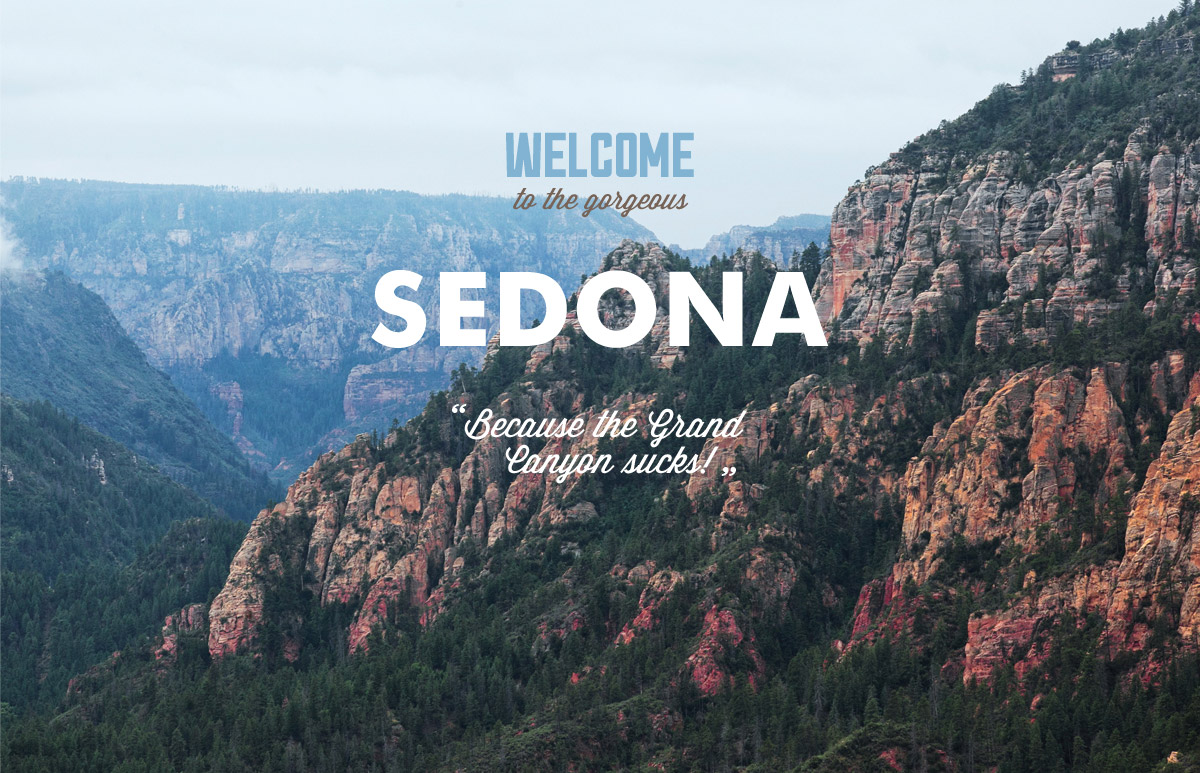
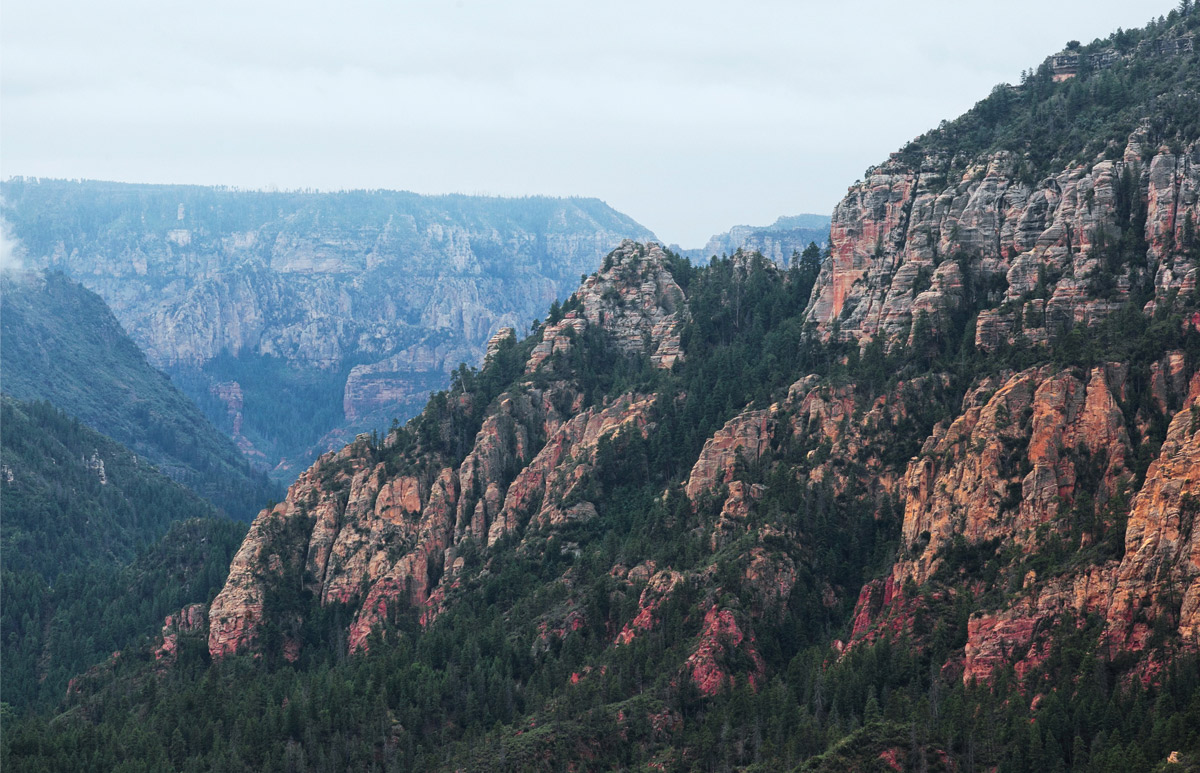
исправлены ошибки

Changed region(s): [[0.3083, 0.3415, 0.7092, 0.4657], [0.4008, 0.1552, 0.5858, 0.2794], [0.37, 0.5278, 0.6167, 0.621]]

diff --git a/index.html b/index.html
@@ -8,6 +8,7 @@
     <body>
         <header class="page-header">
             <nav class="main-menu">
+                <img src="img/sedona.png" alt="sedona" width="458" height="352">
                 <div class="logo">
                     <a><img alt="Логотип" src="img/logo.png" width="138" height="70"></a>
                 </div>
@@ -28,8 +29,8 @@
                 <h2 class="visually-hidden">Преимущества</h2>
                 <p>Рассмотрим 5 причин, по которым Седона круче чем Гранд Каньон!</p>
       
-                <ul class="features-with-img">
-                    <li class="features-with-img-item">
+                <ul class="features-img">
+                    <li class="features-img-item">
                         <img src="img/real-town.jpg" width="800" height="401" alt="Настоящий городок">
                         <div>
                             <h3>Настоящий городок</h3>
@@ -37,7 +38,7 @@
                             <p>Седона — не аттракцион для туристов, там течет своя жизнь</p>
                         </div>
                     </li>
-                    <li class="features-with-img-item">
+                    <li class="features-img-item">
                         <img src="img/bridge.jpg" width="800" height="400" alt="Мост дьявола">
                         <div>
                             <h3>Там есть Мост дьявола</h3>
@@ -46,7 +47,7 @@
                       </div>
                     </li>
                 </ul>
-                <ul class="features-list">
+                <ul class="features">
                     <li class="features-item">
                         <h3>Небольшая площадь</h3>
                         <p>— №3 —</p>
@@ -65,7 +66,7 @@
                 </ul>
 
                 <h2 class="visually-hidden">Рекомендации</h2> 
-                <ul class="recommendations-list">
+                <ul class="recommendations">
                     <li class="recommendations-item">
                         <h3>Жильё</h3>
                         <p>Рекомендуем пожить в настоящем мотеле, всё как в кино!</p>  
@@ -91,19 +92,25 @@
                     <p class="date-item">
                         <label for="date-entry">Дата заезда: </label>
                         <input type="text" id="date-entry" name="date-entry-field" placeholder="24 апреля 2017">
+                        <button class="button" type="button">Календарь</button>
                     </p>
                     <p class="date-item">
                         <label for="date-departure">Дата выезда: </label>
                         <input type="text" id="date-departure" name="date-departure-field" placeholder="24 апреля 2017">
+                        <button class="button" type="button">Календарь</button>
                     </p>
                     <div class="half-width">
                         <p class="amount-item">
                             <label for="adults-amount">Взрослые: </label>
                             <input type="number" id="adults-amount" name="adults-amount-field" value="2">
+                            <button class="button" type="button">Уменьшить</button>
+                            <button class="button" type="button">Увеличить</button>
                         </p>
                         <p class="amount-item">
                             <label for="kids-amount">Дети: </label>
                             <input type="number" id="kids-amount" name="kids-amount-field" value="0">
+                            <button class="button" type="button">Уменьшить</button>
+                            <button class="button" type="button">Увеличить</button>
                         </p>
                     </div>
                     <button class="button" type="submit">Найти</button>

diff --git a/hotels.html b/hotels.html
@@ -93,17 +93,17 @@
                 <span>Сортировка:</span>
                 <ul class="sort-by-list">
                     <li class="sort-by-item">
-                        <button type="button">по-цене</button>
+                        <a href="#">по-цене</a>
                     </li>
                     <li class="sort-by-item">
-                        <button type="button">по-типу</button>
+                        <a href="#">по-типу</a>
                     </li>
                     <li class="sort-by-item">
-                        <button type="button">по-рейтингу</button>
+                        <a href="#">по-рейтингу</a>
                     </li>
                 </ul>
-                <button class="button up-button">По возрастанию</button>
-                <button class="button down-button">По убыванию</button>
+                <a href="#" class="up-button">По возрастанию</a>
+                <a href="#" class="down-button">По убыванию</a>
             </div>
             <ul class="hotels-list">
                 <li class="hotels-item">
@@ -118,7 +118,7 @@
                         </div>
                         <div>
                             <p>От 4000 р.</p>
-                            <button type="button" class="button">Забронировать</button>
+                            <a href="#">Забронировать</a>
                         </div>
                     </div>
                     <div class="hotels-rating">
@@ -138,7 +138,7 @@
                         </div>
                         <div>
                             <p>От 3000 р.</p>
-                            <button type="button" class="button">Забронировать</button>
+                            <a href="">Забронировать</a>
                         </div>
                     </div>
                     <div class="hotels-rating">
@@ -158,7 +158,7 @@
                         </div>
                         <div>
                             <p>От 2000 р.</p>
-                            <button type="button" class="button">Забронировать</button>
+                            <a href="#">Забронировать</a>
                         </div>
                     </div>
                     <div class="hotels-rating">
